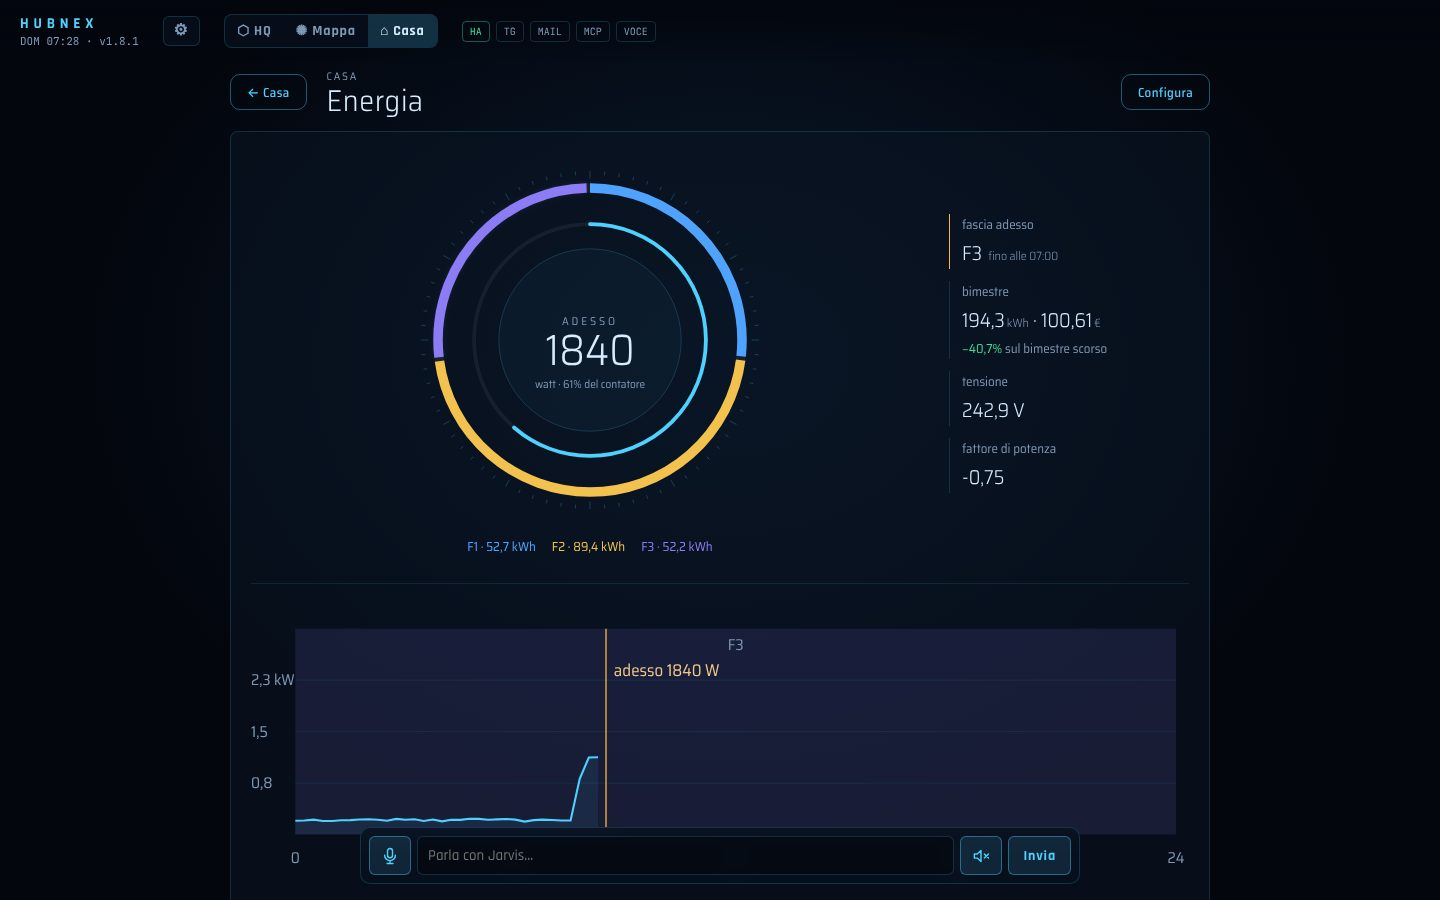
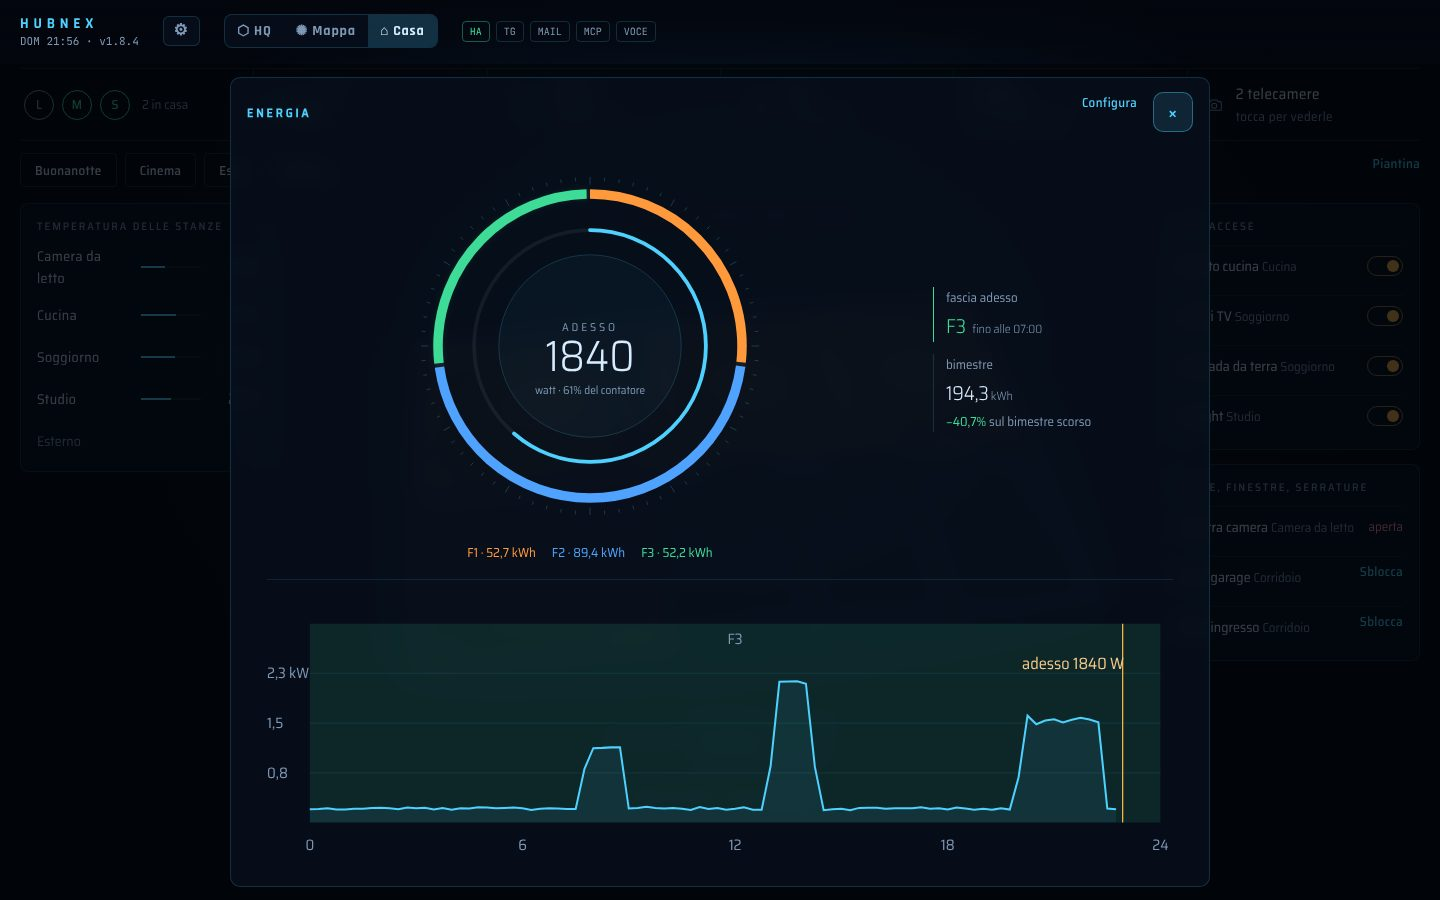
Presentazione: nuova schermata Energia (popup, nuovi colori delle fasce)
Claude-Session: https://claude.ai/code/session_01AtJuxBtqv9XdzkVnSgiwR6

diff --git a/docs/index.html b/docs/index.html
@@ -128,7 +128,7 @@ footer { padding: 40px 0 70px; border-top: 1px solid var(--line); color: var(--m
         <li><b>La giornata</b><span>La potenza di oggi sullo sfondo delle fasce: si vede quando consumi, e quanto in ogni fascia.</span></li>
         <li><b>La bolletta</b><span>Quanto hai speso, quanto spenderai al ritmo di oggi, cosa è cambiato rispetto al periodo scorso. E un consiglio quando una fascia cresce.</span></li>
       </ul>
-      <div class="shot"><img src="img/energia.jpg" alt="Pagina Energia: il reattore con le tre fasce attorno alla potenza attuale" width="1440" height="900"></div>
+      <div class="shot"><img src="img/energia.jpg" alt="Il popup Energia: il reattore con le fasce F1 arancione, F2 blu e F3 verde attorno alla potenza attuale" width="1440" height="900"></div>
     </div>
   </section>
 
